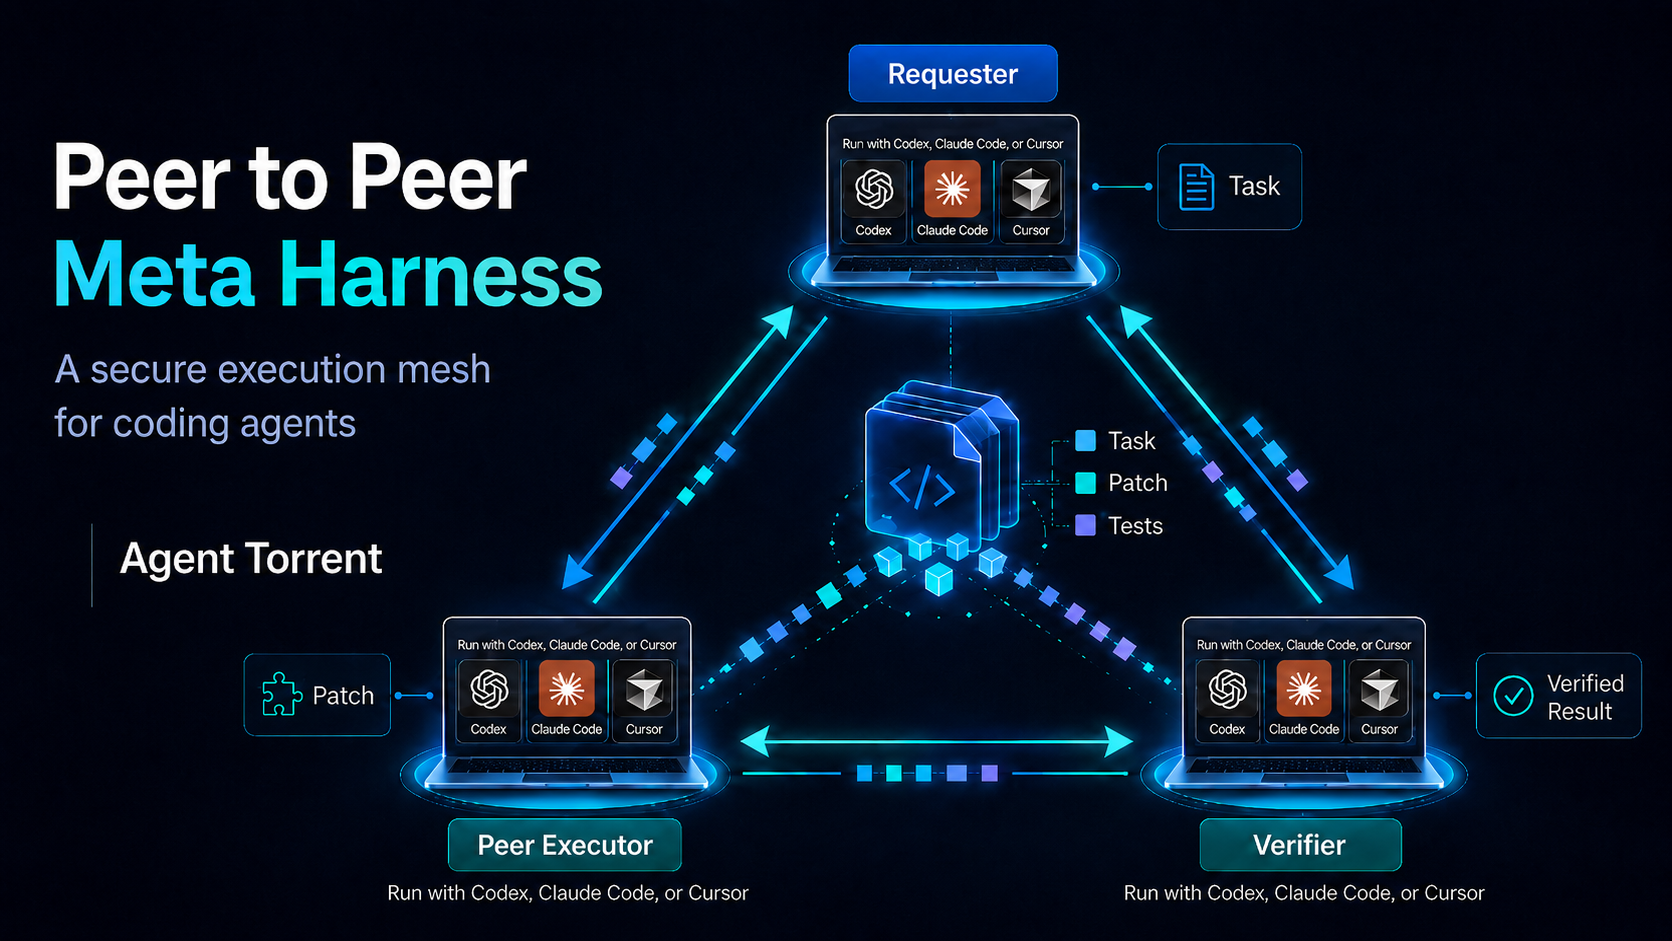
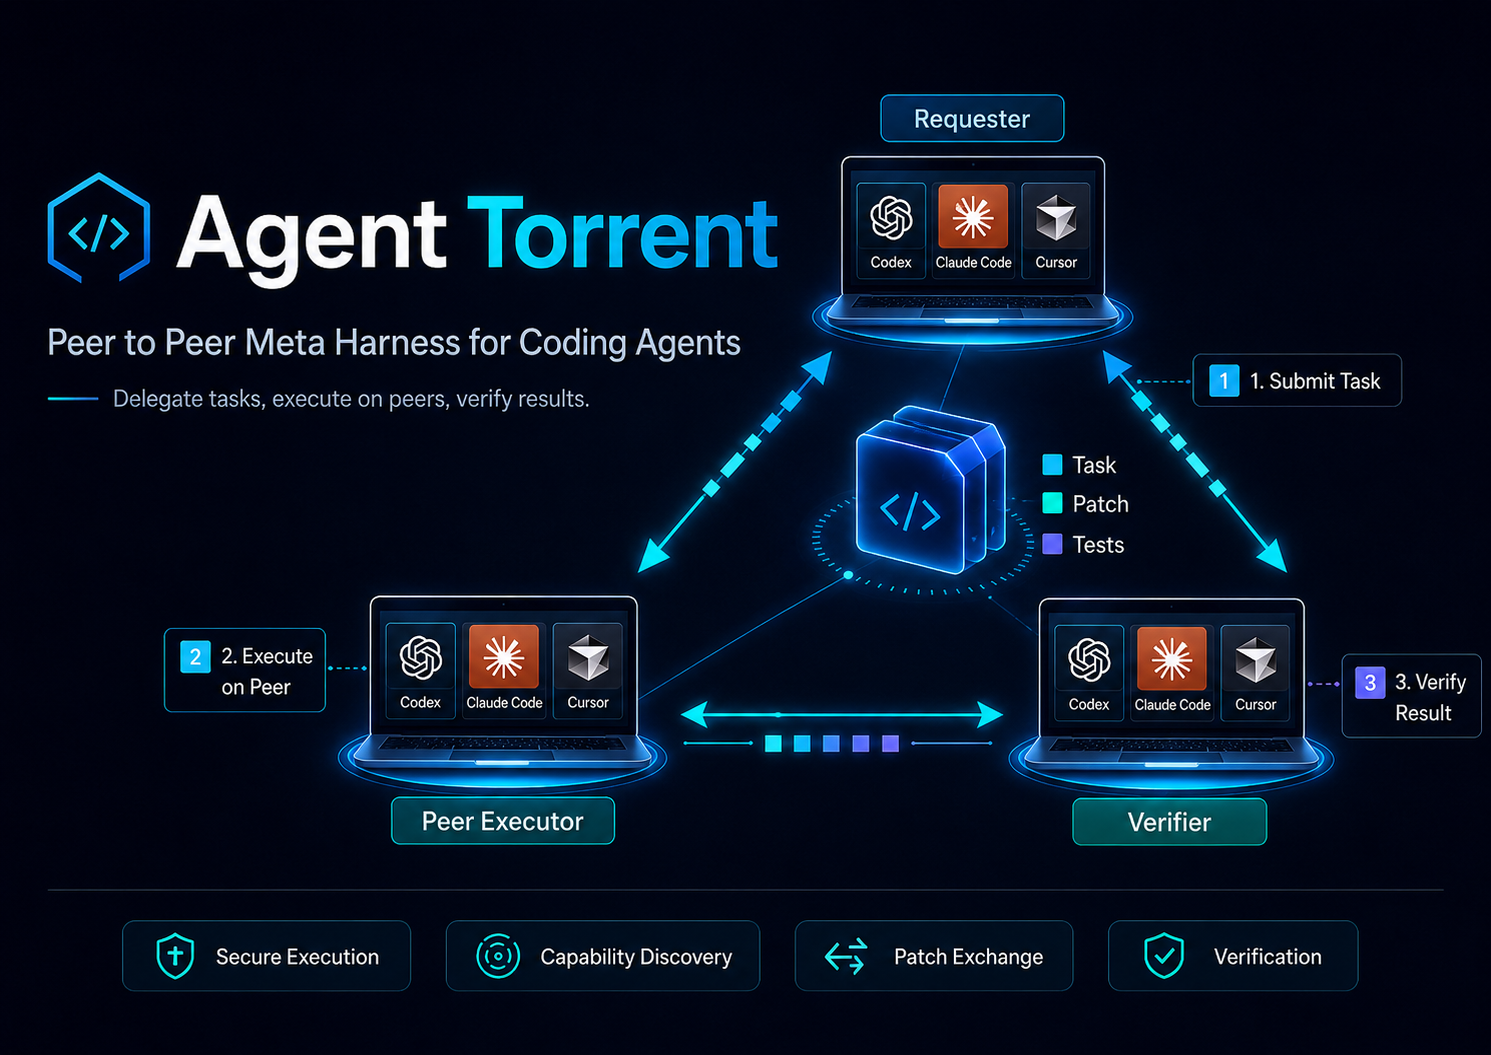
Replace README hero image with updated Agent Torrent branding
Claude-Session: https://claude.ai/code/session_01CjhUPyEeL1Eh1eD9W1ADub

Changed region(s): [[0.0309, 0.0308, 0.9873, 0.9554], [0.0309, 0.3698, 0.4011, 0.4623]]

diff --git a/README.md b/README.md
@@ -1,6 +1,6 @@
 # AgentTorrent
 
-![AgentTorrent — a peer-to-peer meta-harness: a secure execution mesh for coding agents, with requester, peer executor, and verifier peers exchanging tasks, patches, and verified results](docs/agent-torrent-hero.png)
+![Agent Torrent — peer to peer meta harness for coding agents: submit a task, execute on a peer, verify the result](docs/agent-torrent-hero.png)
 
 A prototype peer-to-peer **meta-harness**: desktop peers advertise agent
 capabilities (the `claude` and `codex` CLIs) and delegate coding tasks to